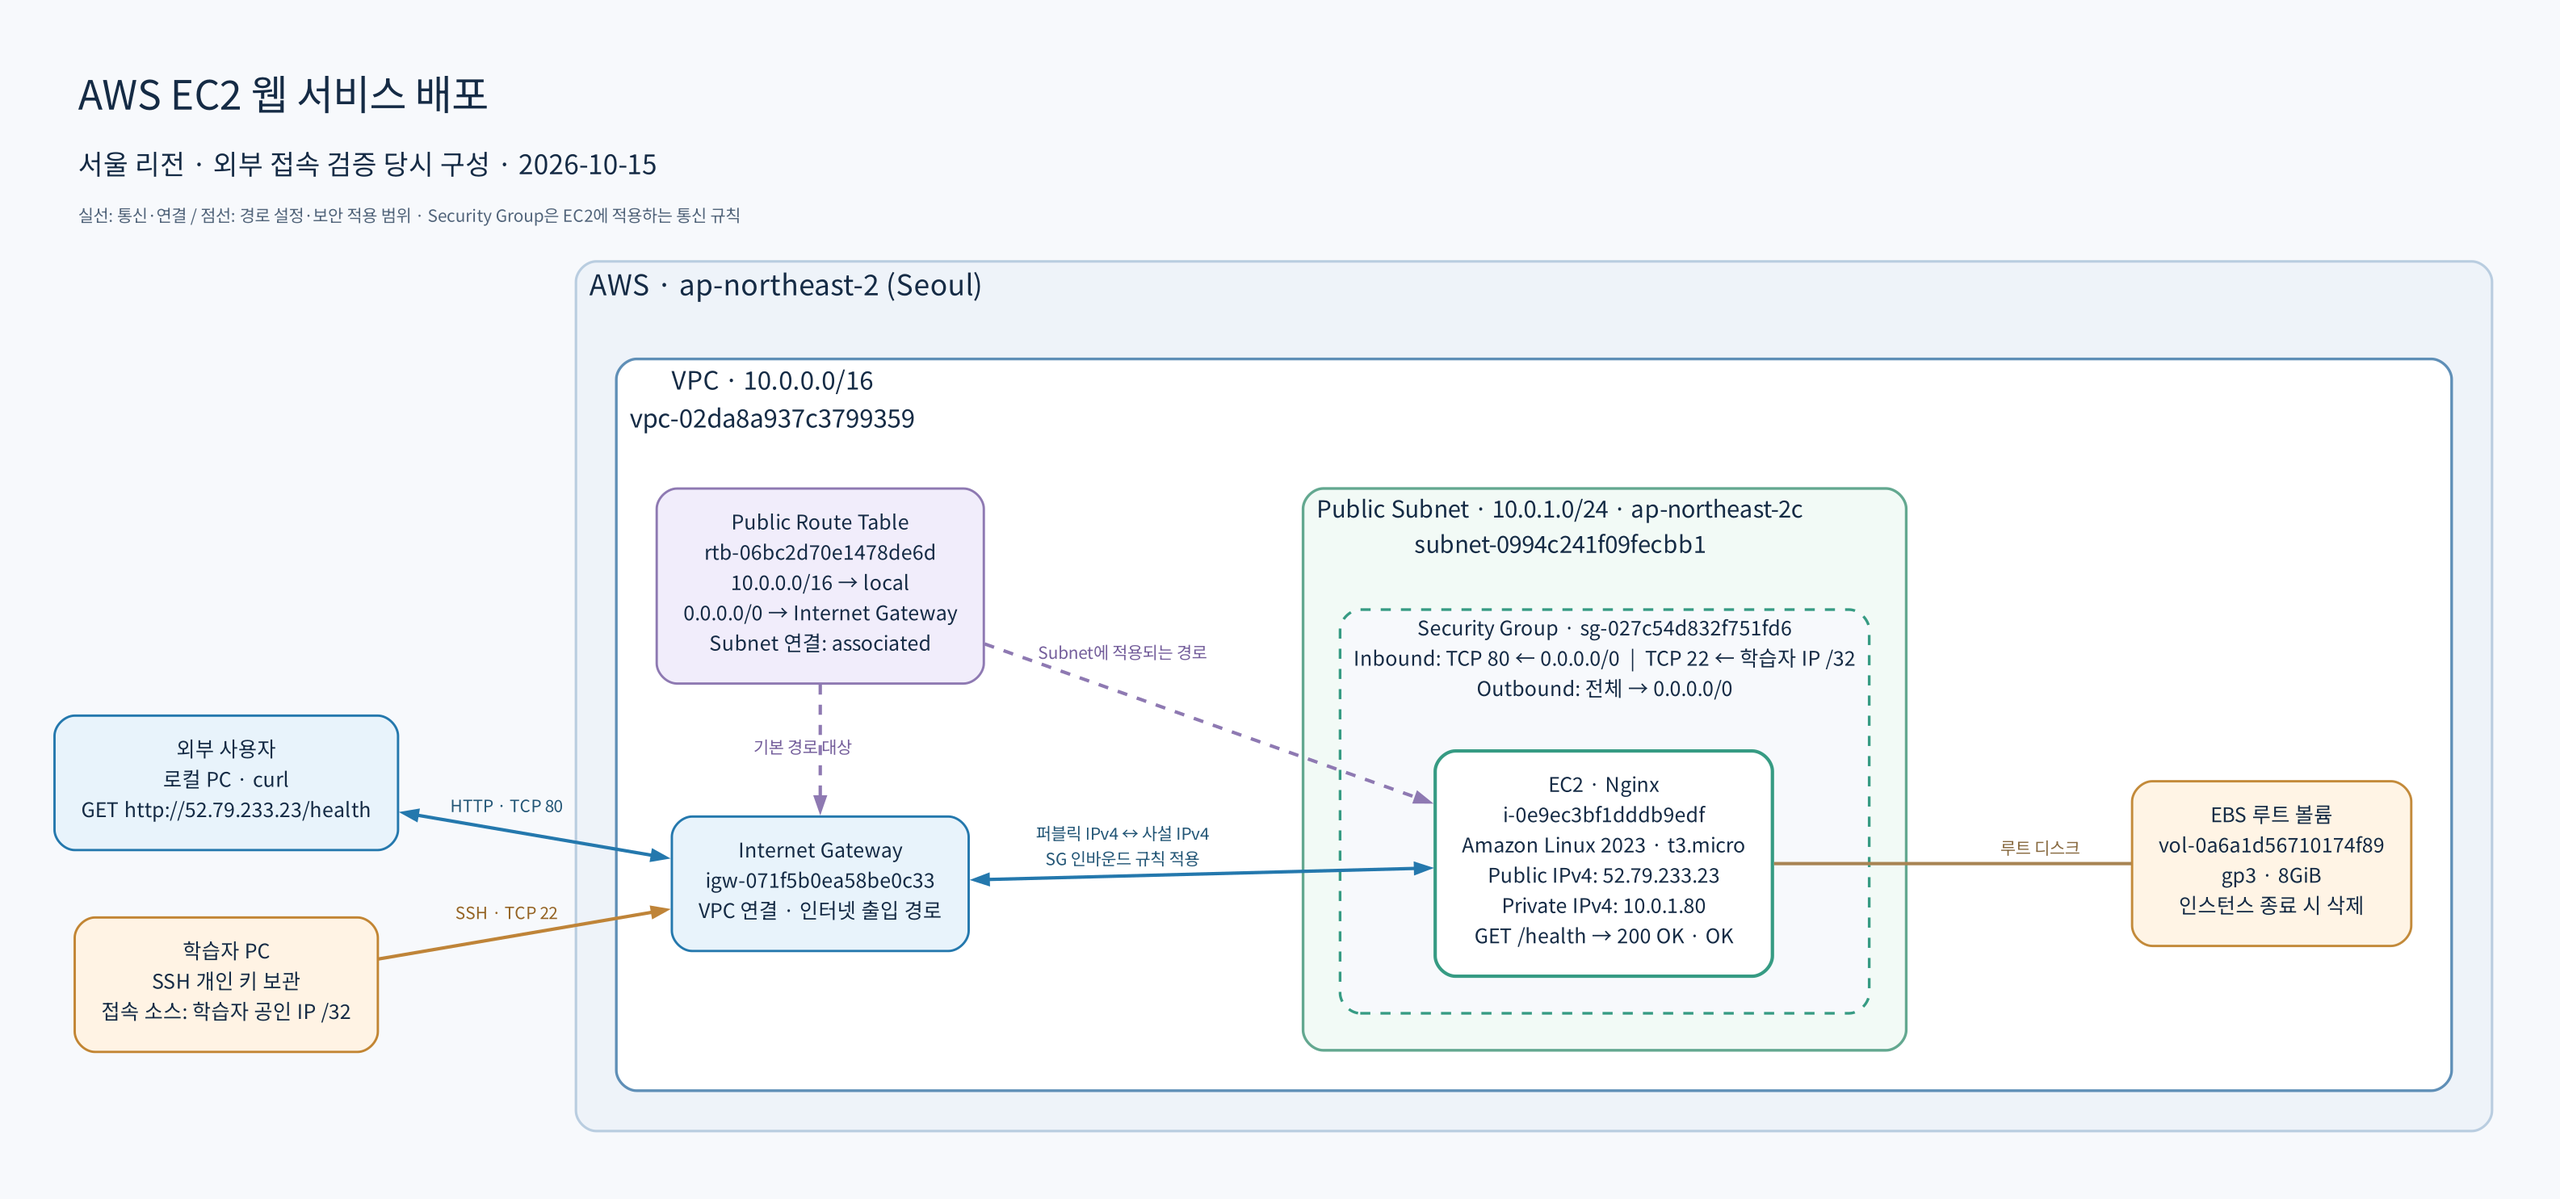
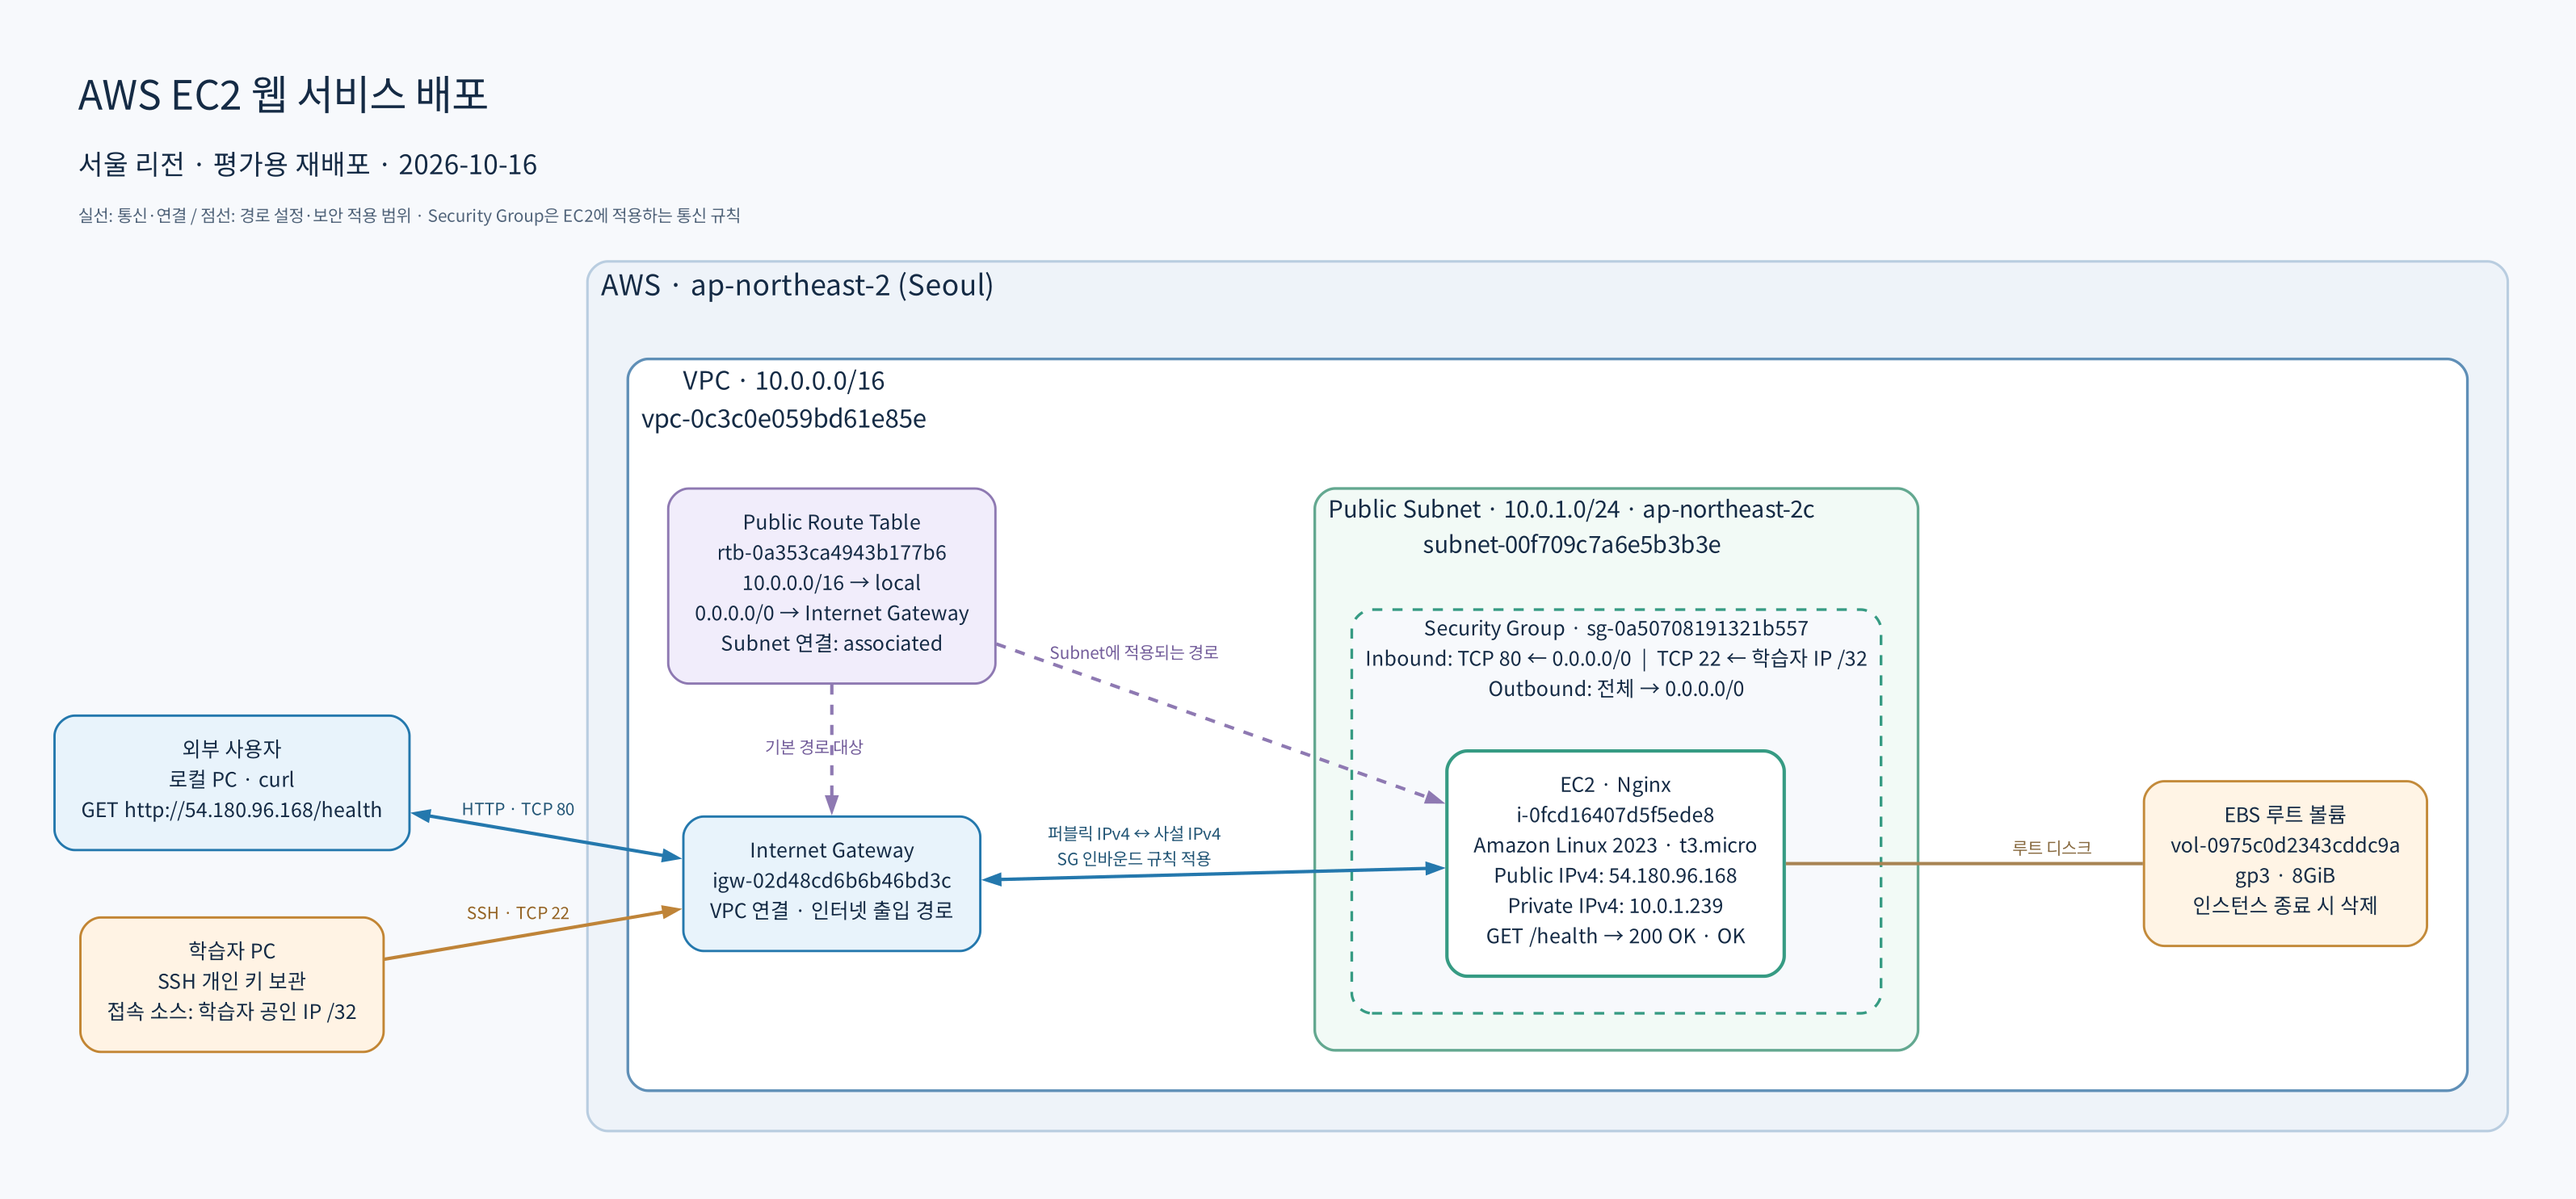
docs: Update evaluation deployment and verification evidence

diff --git a/docs/study.md b/docs/study.md
@@ -59,14 +59,14 @@ Elastic의 E, Compute와 Cloud의 C 두 개를 줄여서 EC2라고 부릅니다.
 
 ### VPC와 서브넷의 IP 범위
 
-이번 실습의 주소 구성을 보면 관계를 이해하기 쉽습니다.
+2026-10-16 평가용 재배포의 주소 구성을 보면 관계를 이해하기 쉽습니다.
 
 | 구분 | 실습 설정 | 의미 |
 |---|---|---|
 | VPC | `10.0.0.0/16` | `10.0.0.0`부터 `10.0.255.255`까지의 주소 범위 |
 | 서브넷 | `10.0.1.0/24` | VPC 범위 안의 `10.0.1.0`부터 `10.0.1.255`까지 |
 | 서브넷의 가용 영역 | `ap-northeast-2c` | 서울 리전 안에서 이 서브넷이 속한 영역 |
-| EC2 사설 IP | `10.0.1.80` | 서브넷 범위 안에서 EC2에 할당된 주소 |
+| EC2 사설 IP | `10.0.1.239` | 서브넷 범위 안에서 EC2에 할당된 주소 |
 
 이렇게 IP 주소 뒤에 `/16`, `/24`를 붙여 범위를 나타내는 방식을 **CIDR**이라고 합니다. IPv4 주소는 32비트이며 `/24`는 앞의 24비트를 네트워크 구분에 사용한다는 뜻입니다. 나머지 8비트로 `2^8 = 256`개의 주소를 표현할 수 있습니다.
 
@@ -95,13 +95,13 @@ Private Subnet에서도 IPv4 통신에 NAT 장치 등을 구성하면 서버가 
 
 ### IPv4에서 퍼블릭 IP와 사설 IP의 관계
 
-이번 실습의 EC2에는 사설 IP `10.0.1.80`과 퍼블릭 IP `52.79.233.23`이 할당되어 있었습니다.
+2026-10-16 평가용 EC2에는 사설 IP `10.0.1.239`와 퍼블릭 IP `54.180.96.168`이 할당되어 있습니다.
 
 - 인터넷의 클라이언트는 퍼블릭 IP로 요청합니다.
 - IGW는 EC2의 퍼블릭 IPv4와 사설 IPv4 사이의 주소 변환을 수행합니다.
 - EC2의 운영체제에서는 사설 IP를 사용하고, 인터넷에서는 연결된 퍼블릭 IP로 통신합니다.
 
-이 설명은 배포 당시 주소를 사용한 예시입니다. 현재는 EC2 종료로 퍼블릭 IP가 반환된 상태입니다. [AWS 인터넷 게이트웨이와 주소 변환](https://docs.aws.amazon.com/vpc/latest/userguide/VPC_Internet_Gateway.html#InternetGateway-NAT)
+이 설명은 평가용 배포의 주소를 사용한 예시입니다. 평가 종료 후 EC2를 삭제하면 자동 할당된 퍼블릭 IPv4가 반환됩니다. [AWS 인터넷 게이트웨이와 주소 변환](https://docs.aws.amazon.com/vpc/latest/userguide/VPC_Internet_Gateway.html#InternetGateway-NAT)
 
 ### IGW를 연결하면 바로 인터넷에 접속할 수 있는가?
 
@@ -134,13 +134,13 @@ Private Subnet에서도 IPv4 통신에 NAT 장치 등을 구성하면 서버가 
 | 목적지 | 대상 | 의미 |
 |---|---|---|
 | `10.0.0.0/16` | `local` | VPC 내부 주소로 향하는 통신 경로 |
-| `0.0.0.0/0` | `igw-071f5b0ea58be0c33` | 더 구체적인 경로에 해당하지 않는 IPv4 트래픽의 인터넷 경로 |
+| `0.0.0.0/0` | `igw-02d48cd6b6b46bd3c` | 더 구체적인 경로에 해당하지 않는 IPv4 트래픽의 인터넷 경로 |
 
 `local`은 VPC 내부 통신을 위한 경로입니다. EC2 자기 자신을 가리키는 `localhost`와는 의미가 다릅니다. `0.0.0.0/0`은 모든 IPv4 주소를 포함하는 범위이며 기본 경로에 사용합니다. IPv6 전체 범위는 별도의 `::/0`으로 표현합니다. [서브넷 라우팅 규칙](https://docs.aws.amazon.com/vpc/latest/userguide/subnet-route-tables.html#route-table-routes)
 
 여러 경로에 동시에 해당하면 **더 구체적인 주소 범위의 경로**를 선택합니다. 이를 최장 접두사 일치(Longest prefix match)라고 합니다.
 
-- 목적지가 `10.0.1.80`이면 `/16`과 `/0`에 모두 해당하지만, 더 구체적인 `/16`의 `local` 경로를 사용합니다.
+- 목적지가 `10.0.1.239`이면 `/16`과 `/0`에 모두 해당하지만, 더 구체적인 `/16`의 `local` 경로를 사용합니다.
 - 일반적인 외부 웹 서버의 퍼블릭 IP는 위 `10.0.0.0/16`에 해당하지 않으므로 `/0`의 IGW 경로를 사용합니다.
 
 따라서 `0.0.0.0/0 → IGW`가 있어도 VPC 내부 통신이 전부 인터넷으로 나가지는 않습니다. [AWS 경로 우선순위](https://docs.aws.amazon.com/vpc/latest/userguide/route-tables-priority.html)

diff --git a/docs/cleanup-checklist.md b/docs/cleanup-checklist.md
@@ -1,6 +1,30 @@
 # 실습 리소스 정리 체크리스트
 
-## 리소스와 완료 근거
+## 2026-10-16 평가용 재배포 — 정리 대기
+
+평가용 웹 서버는 운영 중이다. 아래 항목은 평가 종료 후 실행하고 실제 삭제 결과를 확인한 다음 완료 표시한다.
+
+- [ ] EC2 `i-0fcd16407d5f5ede8`의 `terminated` 확인
+- [ ] 루트 EBS `vol-0975c0d2343cddc9a` 삭제 확인 (`DeleteOnTermination: true` 설정 확인됨)
+- [ ] 추가 실습 미사용 EBS 볼륨 확인 및 정리
+- [ ] 자동 할당 퍼블릭 IPv4 `54.180.96.168` 반환 확인 (`PublicIp: null`)
+- [ ] 실습에 사용한 Elastic IP가 남아 있는지 확인 및 정리
+- [ ] Route Table 연결 `rtbassoc-024a91303aba8e958` 해제
+- [ ] Route Table `rtb-0a353ca4943b177b6` 삭제 확인
+- [ ] Subnet `subnet-00f709c7a6e5b3b3e` 삭제 확인
+- [ ] Security Group `sg-0a50708191321b557` 삭제 확인
+- [ ] Internet Gateway `igw-02d48cd6b6b46bd3c` 연결 해제 및 삭제 확인
+- [ ] VPC `vpc-0c3c0e059bd61e85e` 삭제 확인
+- [ ] 키페어 `codyssey-eval` (`key-0e93a99ca48f480b9`)의 AWS 등록 삭제 확인
+- [ ] 실습 관련 NAT Gateway, ELB/ALB, RDS의 해당 없음 확인
+
+정리 순서는 EC2 종료 → EBS·퍼블릭 IP 확인 → Route Table 연결 해제·삭제 → Subnet·Security Group 삭제 → IGW 연결 해제·삭제 → VPC 삭제 → 키페어 등록 삭제다. NAT Gateway·ELB/ALB·RDS는 이번 배포의 생성 대상에 포함하지 않았다.
+
+## 2026-10-15 최초 실습 — 정리 완료
+
+아래는 최초 실습의 EC2 `i-0e9ec3bf1dddb9edf`와 VPC `vpc-02da8a937c3799359` 등 당시 리소스의 정리 결과다.
+
+### 리소스와 완료 근거
 
 - [x] EC2 `terminated` 확인
 - [x] 루트 EBS 볼륨 `vol-0a6a1d56710174f89` 삭제 확인
@@ -14,7 +38,7 @@
 - [x] 키페어 등록 삭제 확인
 - [x] NAT Gateway, ELB/ALB, RDS의 해당 없음 확인
 
-## 수행한 정리 순서
+### 수행한 정리 순서
 
 | 순서 | 수행 내용 | 완료 근거 |
 |---|---|---|

diff --git a/docs/troubleshooting.md b/docs/troubleshooting.md
@@ -1,6 +1,6 @@
 # EC2 조회 명령의 줄바꿈 오류 해결
 
-EC2 배포 후 접속 정보를 조회하는 과정에서 AWS CLI의 `--query` 문법 오류가 발생했다. `BlockDeviceMappings` 식별자 중간에 들어간 줄바꿈을 제거하고 다시 조회해 인스턴스 상태·IP·볼륨 ID를 확인했다.
+2026-10-15 최초 EC2 배포 후 접속 정보를 조회하는 과정에서 AWS CLI의 `--query` 문법 오류가 발생했다. `BlockDeviceMappings` 식별자 중간에 들어간 줄바꿈을 제거하고 다시 조회해 인스턴스 상태·IP·볼륨 ID를 확인했다. 아래 명령과 출력의 리소스 ID는 당시 배포 기록이며, 해당 리소스는 정리 완료했다.
 
 이 사례는 로컬 CLI 조회식 오류다. 네트워크 장애나 IAM 권한 오류를 재현한 사례는 아니다.
 
@@ -37,7 +37,7 @@ Expecting: colon, got: flatten: Parse error at column 168, token "[]" (FLATTEN)
 
 ## 조치
 
-필드 하나를 한 줄에 배치해 식별자가 분리되지 않도록 수정했다. 다음은 같은 인스턴스에 대한 수정 명령이다. 재실행이 필요하면 학습자가 직접 수행한다.
+필드 하나를 한 줄에 배치해 식별자가 분리되지 않도록 수정했다. 다음은 당시 인스턴스에 사용한 수정 명령이다.
 
 ```bash
 aws ec2 describe-instances \
@@ -72,7 +72,7 @@ aws ec2 describe-instances \
 ]
 ```
 
-조회식 수정으로 오류가 해결됐다. EC2 재생성이나 네트워크·IAM 설정 변경은 해결 과정에 필요하지 않았다. 이후 외부 PC의 `/health` 요청에서도 HTTP 200과 `OK`를 확인했다. [외부 접속 스크린샷](evidence/external-health.png)
+조회식 수정으로 오류가 해결됐다. EC2 재생성이나 네트워크·IAM 설정 변경은 해결 과정에 필요하지 않았다. 2026-10-16 평가용 재배포의 리소스 정보와 검증 결과는 [README](../README.md)에 기록했다.
 
 ## 재발방지
 
